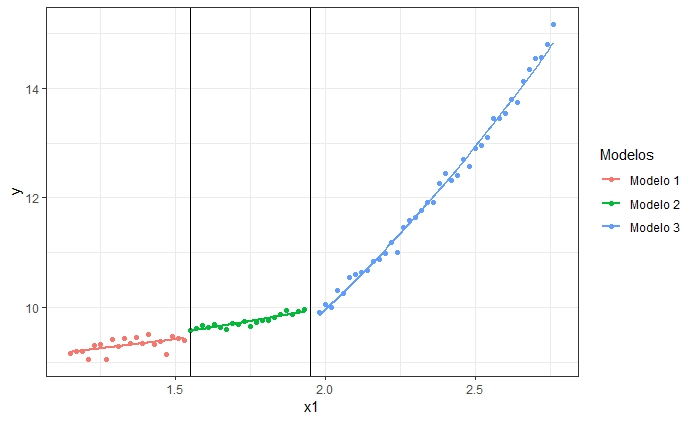
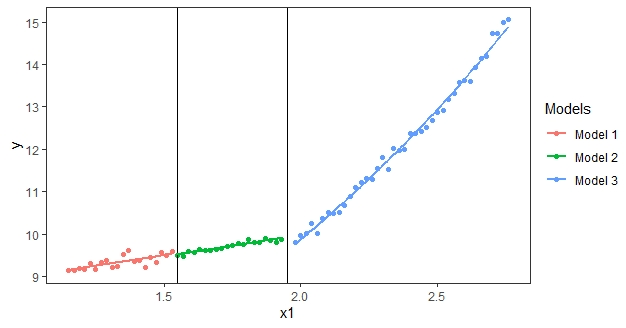
add images

Changed region(s): [[0.0, 0.0, 1.0, 0.9756], [0.6677, 0.8537, 0.7284, 0.9451]]

diff --git a/README.md b/README.md
@@ -1,5 +1,101 @@
-## Autores: Alberto Rodrigues Ferreira.
-### A ideia básica de uma AMG é de que subconjuntos de dados similares tenham um modelo de regressão que prediz melhor comparado a algum modelo de regressão ajustado com todos os dados
+# Generalized Linear Tree
+
+#### This is my undergraduate degree thesis in statistics at [Federal University of Ceará](https://www.ufc.br/)
+
+# Introduction
+
+The basic idea of a Generalized Linear Tree is that similar data subsets have a regression model that better predicts compared to some regression model fitted with all the data.
+
+The idea that motivated the development of the Generalized Linear Tree is the same idea as a common decision/regression tree: divide the entire dataset into smaller subsets in order to improve prediction through means or medians, right?
+
+For example, imagine that we want to predict a person's salary based on age and years of education. So, we could have the following regression tree:
+
+![](https://www.ufc.br/) age figure
+
+Therefore, we can think of the same structure as a tree, but instead of predicting the same value for the same subset, the prediction will be provided by a regression equation so that the prediction will be different for observations from the same subset of the tree.
+
+So the question we can ask is: how do we obtain this regression equation? One possible choice is to always use a multiple linear regression on each subset, which **is a generalized linear model with normal distribution and identity linkage function!**
+
+For example, we could have the following relationship between the explanatory variable and the response variable:
+
+![](https://www.ufc.br/)scatter plot
+
+So suggesting some linear modeling by parts. Resulting in the following tree below:
+
+linear tree figure
+
+Well, despite the model mentioned above being extremely more powerful in terms of predictive power than a common tree, it has a significant disadvantage: it always uses the same model and therefore the same structure for the prediction of an observation, an estimation equation linear and will always be estimated based on the Normal distribution using the maximum likelihood estimator.
+
+In practice, this can happen, but it is complicated with most data sets due to the complexity and number of observations.
+
+Therefore, the idea of a Generalized Linear Tree is that instead of always using the Normal distribution with identity link function for the target variable, we test several distributions with different link functions and see which one best fits a particular subset of the tree.
+
+In particular, the developed model tests only for positive continuous target variables, so the most common distributions used in MLGs are Normal, Gamma, and Inverse Normal together with the identity, logarithmic and inverse linkage functions, totaling nine different models.
+
+# How the method works
+
+To understand how subset models are chosen, we need to understand how the divisions of the tree are chosen. First, let us get to know a little better how divisions are carried out and the reasons behind the idea of separation.
+
+The idea of separation is to determine homogeneous subsets according to the variability of the target variable. This can also be seen to improve the prediction of each particular model of a subset. More specifically, subsets are generated using the following formula:
+
+![](https://www.ufc.br/)figure formula
+
+The objective of a good division is to minimize the standard deviation of the target variable of each subset taking into account the quantity of observations. Therefore, we want to maximize this expression to obtain subsets with standard deviation of the target variable smaller than the standard deviation of the target of the entire set and, consequently, improve the estimation of the models of each subset.
+
+For each division, several feature values are tested, and the feature value that maximizes the expression is chosen, and the division is performed. This process is carried out until at least the stop hyperparameter is triggered, such as the minimum number of observations for the subset of the maximum tree depth, classic hyperparameters of a regression tree.
+
+With the tree built, now it is time to choose the best generalized linear model to predict our target variable for a given subset. For each subset, some GLMs are trained, and then it is verified which model had the smallest training error, for example, the mean squared error or the mean absolute error, in such a way that this model will be chosen for each subset.
+
+This process is carried out recursively until the final subsets of the leaves that will be responsible for predicting the observations.
+
+An important note is that not all MLGs are tested as the tree grows, but only some that get the best results provided by the previous subsets, this is done to avoid computational cost and make learning faster.
+
+# Avoiding overfitting
+
+After choosing the models for each subset of the tree, the pruning process is carried out, which is the main component of the model that avoids overfitting. This is necessary because it can happen that a tree fits a very specific subset and doesn't understand the pattern of the data, thus occasionally overfitting.
+
+There are two main types of pruning, in both pruning, a process is carried out from the bottom to the top of the tree to check whether the division carried out for the leaves has actually suffered from overfitting or not.
+
+In the first one, the training error itself is used to verify whether the predictions made in the leaf nodes were overfitted. The training errors for the leaf nodes and also for the parent node (a subset above the leaf nodes) are calculated. With the three errors calculated, they are compared and it is checked if the training error of the parent node is less than a weighting of the training errors of the leaf nodes, if that happens, the division is "pruned", that is, it ceases to exist, and the new leaf node will be assigned to the parent node. This process is performed recursively to the top of the tree.
+
+An important note is that it is not exactly the training error used, but the training error with a fix. This is done because the training error is usually underestimated, so this fix tries to solve this problem.
+
+In the second type of pruning, almost the same process explained above is done, but with the difference that instead of using the training error, the pruning set error is used, which is a validation set specific to the tree, which it is not used in the training process before pruning.
+
+With that, we finish the learning process and we have our Generalized Linear Tree to make the predictions for the observations we want!
+
+An example is given below:
+
+![](https://www.ufc.br/)Figure Example Generalized Linear Tree
 
 
-![tree](./images/arvore.png)
+In this case, we have three subsets and for each one we have a specific GLM. The first equation (from left to right) is a simple linear regression, which is a MLG with normal distribution and identity link function for observations that are less than or equal to 1.55, the second equation given by a MLG with distribution gamma and inverse quadratic link function for observations less than or equal to 1.95 and greater than 1.55 and the third equation is provided by an MLG with inverse normal distribution and logarithmic link function for observations greater than 1.95.
+
+Prediction equations are provided through the inverse function of the link function, but do not worry, this is a specific component of MLG. Despite not being visualized in the tree, the probability distributions for each subset can be verified in the LINK developed code of all training in the R programming language.
+
+# Predicting new observations
+
+Now is the time to predict observations that the model did not see. For this purpose, we can simply check in which final subset the observation to be predicted belongs based on the prediction equation of the chosen MLG for a given subset.
+
+For example, imagine that we have the following Generalized Linear Tree already trained with our data, and we want to make some predictions. With our feature denoted by $x1$.
+
+![](https://www.ufc.br/) Tree figure with equations
+
+We may want to make predictions for some feature values like 2.4, 1.75, 3.31 and 1.55. Therefore, we just need to look at which subset these observations belong to and perform the prediction. Predictions are given in the table below.
+
+![](https://www.ufc.br/) examples predictions
+
+We can note that we have the prediction for each subset based on the specific GLM.
+
+## Important links
+
+1. [Original paper](https://research.latinxinai.org/papers/icml/2021/pdf/paper_35.pdf) 
+2. [Artice at) Medium (in portuguese)](https://medium.com/turing-talks/%C3%A1rvore-linear-generalizada-uma-extens%C3%A3o-da-%C3%A1rvore-de-regress%C3%A3o-que-voc%C3%AA-deve-conhecer-53f9658f828c) 
+
+
+
+
+
+
+
+
